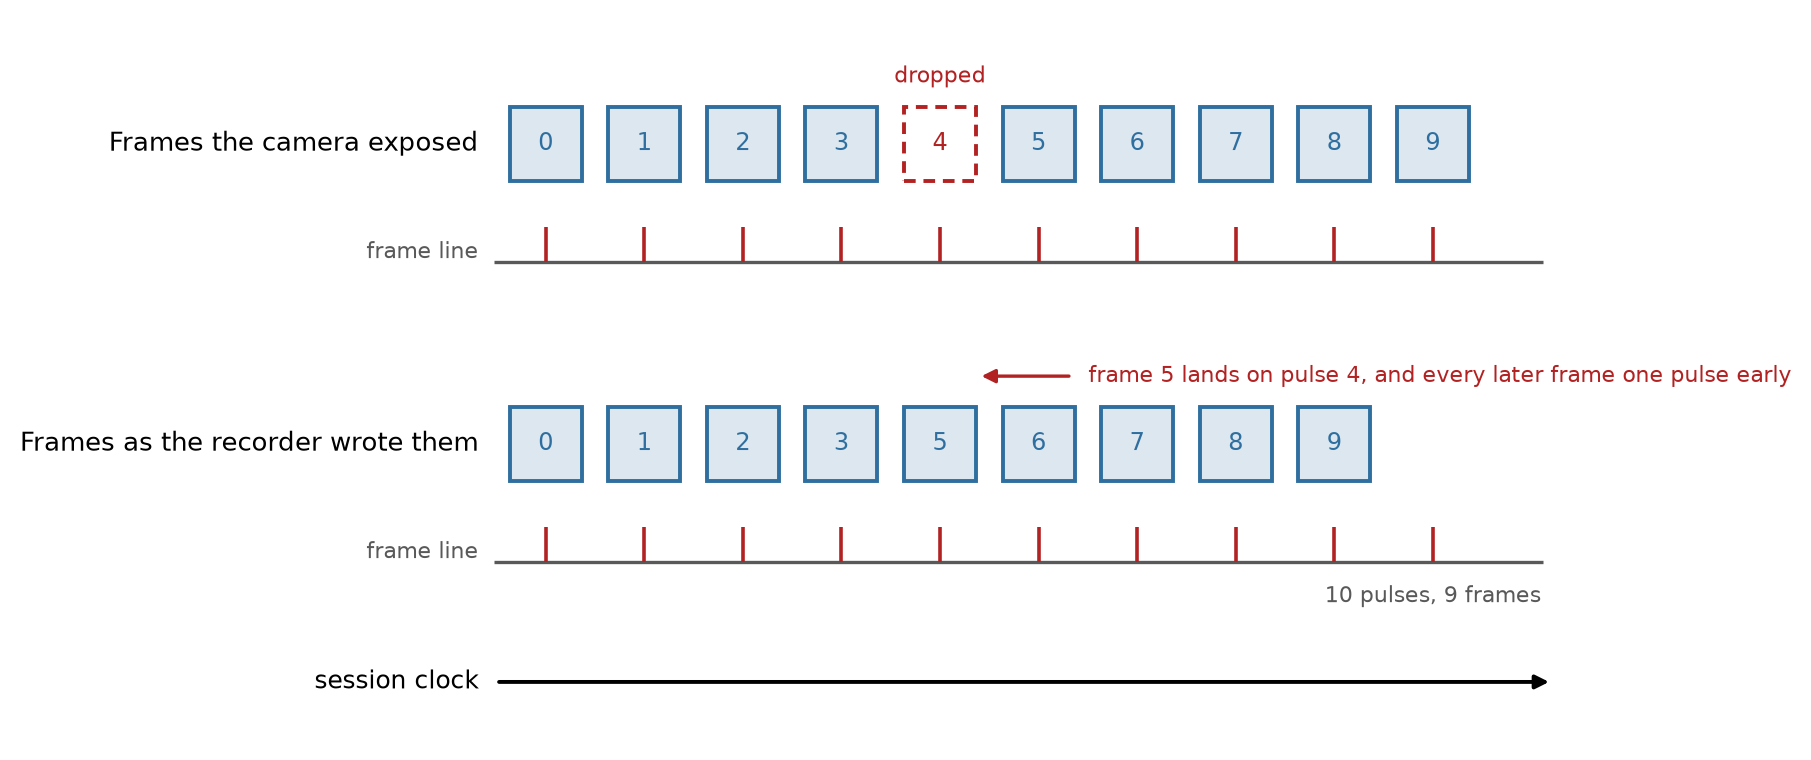
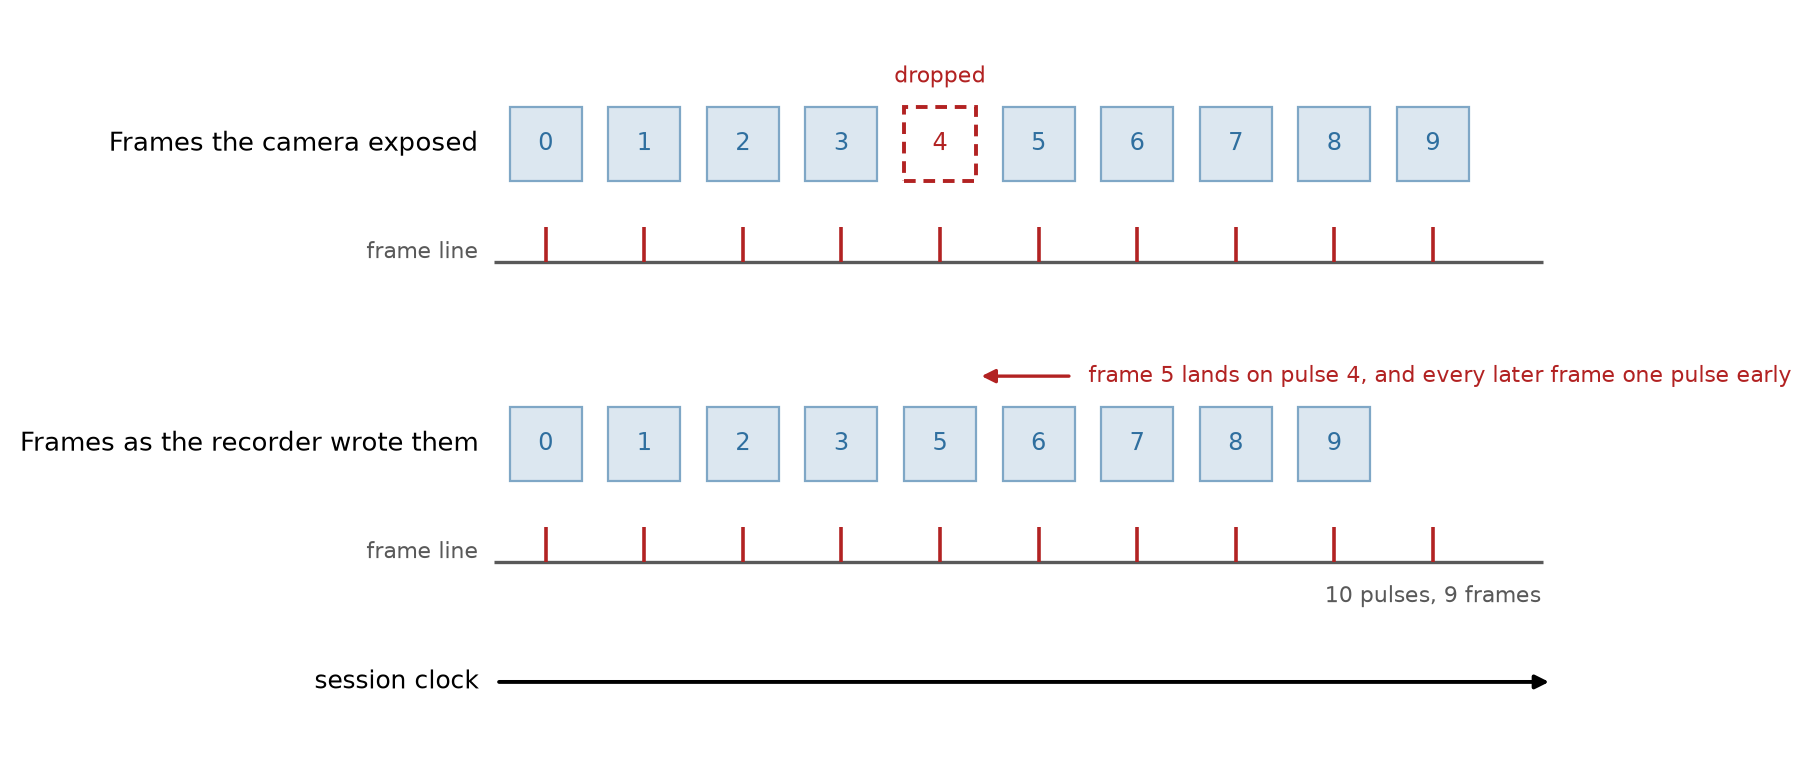
Add legends and lighter outlines to the video figures, and address the how-to review

Changed region(s): [[0.2783, 0.5145, 0.7731, 0.6355], [0.5566, 0.1211, 0.8349, 0.2421], [0.2783, 0.1211, 0.4948, 0.2421]]

diff --git a/docs/_static/images/generate_video_alignment_figures.py b/docs/_static/images/generate_video_alignment_figures.py
@@ -32,11 +32,15 @@ matplotlib.use("Agg")
 import matplotlib.patches as mpatches
 import matplotlib.pyplot as plt
 import numpy as np
+from matplotlib.lines import Line2D
 
 BLACK = "black"
 RED = "firebrick"
 FILL = "#dce7f0"  # the body of a video file
-EDGE = "#2f6f9f"  # its outline, and the colour of anything derived from the camera
+EDGE = "#2f6f9f"  # its label, and the colour of anything derived from the camera
+OUTLINE = "#7fa7c6"  # its outline, the same hue lighter, so the boxes do not compete with the pulses
+SYSTEM_OUTLINE = "0.75"  # the recording system's outline, lightened the same way
+OUTLINE_WIDTH = 0.8
 NOTE = "0.35"  # captions and asides
 OUTDIR = Path(__file__).parent
 
@@ -55,7 +59,13 @@ def video_files(ax, *, y, spans, labels):
     for (start, stop), label in zip(spans, labels):
         ax.add_patch(
             mpatches.Rectangle(
-                (start, y), stop - start, FILE_HEIGHT, facecolor=FILL, edgecolor=EDGE, lw=1.6, joinstyle="miter"
+                (start, y),
+                stop - start,
+                FILE_HEIGHT,
+                facecolor=FILL,
+                edgecolor=OUTLINE,
+                lw=OUTLINE_WIDTH,
+                joinstyle="miter",
             )
         )
         ax.text((start + stop) / 2, y + FILE_HEIGHT / 2, label, ha="center", va="center", fontsize=8.5, color=EDGE)
@@ -78,7 +88,13 @@ def recording_system(ax, *, y):
     """
     ax.add_patch(
         mpatches.Rectangle(
-            (0.55, y), 9.05, SYSTEM_HEIGHT, facecolor="0.93", edgecolor="0.6", lw=1.2, joinstyle="miter"
+            (0.55, y),
+            9.05,
+            SYSTEM_HEIGHT,
+            facecolor="0.93",
+            edgecolor=SYSTEM_OUTLINE,
+            lw=OUTLINE_WIDTH,
+            joinstyle="miter",
         )
     )
     ax.text(5.075, y + SYSTEM_HEIGHT / 2, "recording system", ha="center", va="center", fontsize=7.5, color="0.35")
@@ -133,6 +149,21 @@ def build_setup_figure(*, file_name, title, rows):
     # A guide at the session start, so the gap before each row's first file reads as its offset.
     ax.vlines(0.55, baseline_y, FILE_HEIGHT + 0.2, color="0.8", lw=1.0, linestyle=(0, (4, 4)))
 
+    # What the colors stand for, since the file names alone do not say that a block is a video.
+    legend_handles = [
+        mpatches.Patch(facecolor=FILL, edgecolor=OUTLINE, lw=OUTLINE_WIDTH, label="video file"),
+        Line2D([], [], color=RED, marker="|", linestyle="None", markersize=9, markeredgewidth=1.3, label="pulse"),
+        mpatches.Patch(facecolor="0.93", edgecolor=SYSTEM_OUTLINE, lw=OUTLINE_WIDTH, label="recording system"),
+    ]
+    ax.legend(
+        handles=legend_handles,
+        loc="upper center",
+        bbox_to_anchor=(0.5, 0.0),
+        ncol=len(legend_handles),
+        frameon=False,
+        fontsize=8.5,
+    )
+
     ax.set_xlim(GROUP_X - 0.1, 10.0)
     ax.set_ylim(baseline_y - 0.6, FILE_HEIGHT + 0.62)
     ax.axis("off")
@@ -151,15 +182,21 @@ def build_recording_setups():
         file_name="video_setup_free_running.png",
         title="A free-running camera",
         rows=[
-            ("Known offset", session, ["session.avi"], [1.0], "start pulse"),
+            ("Known offset", session, ["session.mp4"], [1.0], "start pulse"),
             (
                 "A pulse per frame",
                 session,
-                ["session.avi"],
+                ["session.mp4"],
                 frame_pulses(session, interval=0.16),
                 "frame line",
             ),
-            ("Written to several files", split, ["part_01", "part_02", "part_03"], [], "either of the above"),
+            (
+                "Written to several files",
+                split,
+                ["part_01.mp4", "part_02.mp4", "part_03.mp4"],
+                [],
+                "either of the above",
+            ),
         ],
     )
     build_setup_figure(
@@ -169,14 +206,14 @@ def build_recording_setups():
             (
                 "Trial onsets only",
                 trials,
-                ["trial_01", "trial_02", "trial_03"],
+                ["trial_01.mp4", "trial_02.mp4", "trial_03.mp4"],
                 [start for start, _ in trials],
                 "trigger line",
             ),
             (
                 "A pulse per frame",
                 trials,
-                ["trial_01", "trial_02", "trial_03"],
+                ["trial_01.mp4", "trial_02.mp4", "trial_03.mp4"],
                 frame_pulses(trials, interval=0.16),
                 "frame line",
             ),
@@ -204,8 +241,8 @@ def wiring_endpoints(ax, *, title, note):
                 0.30,
                 BOX_HEIGHT,
                 facecolor=FILL if is_camera else "0.93",
-                edgecolor=EDGE if is_camera else "0.55",
-                lw=1.6,
+                edgecolor=OUTLINE if is_camera else SYSTEM_OUTLINE,
+                lw=OUTLINE_WIDTH,
                 joinstyle="miter",
             )
         )
@@ -301,8 +338,8 @@ def build_dropped_frame():
                     width,
                     FILE_HEIGHT,
                     facecolor="white" if is_hollow else FILL,
-                    edgecolor=RED if is_hollow else EDGE,
-                    lw=1.4,
+                    edgecolor=RED if is_hollow else OUTLINE,
+                    lw=1.4 if is_hollow else OUTLINE_WIDTH,
                     linestyle=(0, (3, 2)) if is_hollow else "solid",
                     joinstyle="miter",
                 )

diff --git a/docs/how_to/align_external_video.rst b/docs/how_to/align_external_video.rst
@@ -160,6 +160,10 @@ Configure the line and read the event times back without writing anything:
 
     frame_pulse_times = digital_interface.get_event_times("camera_frame")
 
+Each key of ``detection_configuration`` names one input of the recording system as the file names it, here
+``"DIGITAL-IN-02"``. Use the input the camera's cable is plugged into on your rig. A name the file does not
+hold throws an error that lists the ones it does.
+
 The pulses are on the clock of the system that recorded them. Times read from an Intan digital line are on
 the Intan clock, so the frames you give them to land on that clock too. That is the session clock as long
 as the recording interface is not shifted, and that is the usual arrangement: one system is the master
@@ -179,8 +183,8 @@ writes one ``ImageSeries``. The only question is what timed it.
 
     from neuroconv.datainterfaces import ExternalVideoInterface
 
-    interface = ExternalVideoInterface(file_paths=["session.avi"], video_name="BehaviorCamera")
-    interface.alignment.keys()
+    video_interface = ExternalVideoInterface(file_paths=["session.mp4"], video_name="BehaviorCamera")
+    video_interface.alignment.keys()
     # ('session',)
 
 Each video file is addressed for alignment by the stem of its path, so a single video has one key. A single
@@ -199,7 +203,7 @@ session start, from a note or from the one trigger pulse that started it.
 
 .. code-block:: python
 
-    interface.alignment.shift_times(12.5)
+    video_interface.alignment.shift_times(12.5)
 
 The frame times come from the video's own frame rate, shifted by the offset. This corrects the start and
 nothing else. Two clocks drift apart, so on a long session the error at the end of the video grows and no
@@ -218,13 +222,14 @@ did not make. To make it explicit, place each file where the previous one ends:
 
     import numpy as np
 
-    interface = ExternalVideoInterface(file_paths=["part_01.avi", "part_02.avi", "part_03.avi"])
+    video_interface = ExternalVideoInterface(file_paths=["part_01.mp4", "part_02.mp4", "part_03.mp4"])
 
-    durations = np.array(interface.get_header_frame_counts()) / np.array(interface.get_header_frame_rates())
+    frame_counts = np.array(video_interface.get_header_frame_counts())
+    durations = frame_counts / np.array(video_interface.get_header_frame_rates())
     starting_times = np.concatenate([[0.0], np.cumsum(durations)[:-1]])
 
-    for segment_key, start in zip(interface.alignment.keys(), starting_times):
-        interface.alignment[segment_key].start_at(start)
+    for segment_key, start in zip(video_interface.alignment.keys(), starting_times):
+        video_interface.alignment[segment_key].start_at(start)
 
 ``start_at`` moves one file so that its first frame sits at the time you give on the session clock. It reads
 nothing inside the file. If the camera also started late, shift the interface as in the known-offset case
@@ -241,7 +246,7 @@ timestamped each frame directly. This is accurate and corrects drift. Prefer it 
 
     frame_pulse_times = digital_interface.get_event_times("camera_frame")
 
-    interface.alignment["session"].set_times(frame_pulse_times)
+    video_interface.alignment["session"].set_times(frame_pulse_times)
 
 You do not have to count them first. The interface throws an error when the number of times does not match
 the number of frames and says by how much. Many more pulses than frames usually means the line was running
@@ -275,8 +280,8 @@ A shift will not do it because the two clocks drift.
     # The same pulses, as the recording system timestamped them, on the session clock.
     recording_system_sync_times = digital_interface.get_event_times("camera_sync")
 
-    interface.alignment["session"].set_times(frame_times)
-    interface.alignment["session"].remap_times(
+    video_interface.alignment["session"].set_times(frame_times)
+    video_interface.alignment["session"].remap_times(
         local_sync_times=camera_sync_times,
         reference_sync_times=recording_system_sync_times,
     )
@@ -308,8 +313,8 @@ each file begins within the series. It is computed from the frame counts and nev
 
 .. code-block:: python
 
-    interface = ExternalVideoInterface(file_paths=["trial_01.avi", "trial_02.avi", "trial_03.avi"])
-    interface.alignment.keys()
+    video_interface = ExternalVideoInterface(file_paths=["trial_01.mp4", "trial_02.mp4", "trial_03.mp4"])
+    video_interface.alignment.keys()
     # ('trial_01', 'trial_02', 'trial_03')
 
 If two trials wrote files with the same name in different folders, rename them. The stem is how a file is
@@ -323,11 +328,11 @@ merging the two.
 .. code-block:: python
 
     trial_onsets = digital_interface.get_event_times("camera_trigger")
-    segment_keys = interface.alignment.keys()
+    segment_keys = video_interface.alignment.keys()
     assert len(trial_onsets) == len(segment_keys)
 
     for segment_key, onset in zip(segment_keys, trial_onsets):
-        interface.alignment[segment_key].start_at(onset)
+        video_interface.alignment[segment_key].start_at(onset)
 
 Each file is placed where its trigger fired. Within a file the frame times come from the nominal frame
 rate, so the drift caveat from the known-offset case applies again, per trial instead of once for the
@@ -361,17 +366,33 @@ are the frame times of that file.
     gap_indices = np.flatnonzero(np.diff(frame_pulse_times) > 10 * frame_interval) + 1
     bursts = np.split(frame_pulse_times, gap_indices)
 
-    segment_keys = interface.alignment.keys()
+    segment_keys = video_interface.alignment.keys()
 
     assert len(bursts) == len(segment_keys), f"{len(bursts)} bursts for {len(segment_keys)} files."
     for segment_key, burst in zip(segment_keys, bursts):
-        interface.alignment[segment_key].set_times(burst)
+        video_interface.alignment[segment_key].set_times(burst)
+
+    # Each file starts on the first pulse of its burst, which the trials table below can use.
+    trial_onsets = np.array([burst[0] for burst in bursts])
 
 Keep the assertion on the burst count. Without it ``zip`` stops at the shorter of the two lists and the
 result looks fine. The interface checks the count within a file and throws an error when a burst does not
 have one pulse per frame. In either case the pulse record and the files disagree about
 the session, and you have to find the cause before the timestamps mean anything. The usual cause is a trial
 that was triggered but never reached disk. That puts every later file onto the pulses of the wrong trial.
+
+If your acquisition software logs which trials never reached disk, drop their bursts before pairing the
+rest with the files:
+
+.. code-block:: python
+
+    # Positions, in the full sequence of triggered trials, of the trials whose video is missing.
+    missing_trial_indices = {12, 47}
+    bursts = [burst for index, burst in enumerate(bursts) if index not in missing_trial_indices]
+
+The count check then confirms each burst against its file. It cannot tell two trials of the same length
+apart, so on a rig where every trial runs for a fixed time the log is the only record of which burst is
+which.
 
 **A second line makes the split more robust.** If the rig also has a line that marks when each trial began,
 bin the frame pulses between consecutive trial onsets instead of splitting on the gaps. This needs no
@@ -397,7 +418,8 @@ somewhere that can hold it: a column on the trials table when the segments are y
 
 .. code-block:: python
 
-    durations = np.array(interface.get_header_frame_counts()) / np.array(interface.get_header_frame_rates())
+    frame_counts = np.array(video_interface.get_header_frame_counts())
+    durations = frame_counts / np.array(video_interface.get_header_frame_rates())
 
     nwbfile.add_trial_column(name="video_file", description="The external_file entry holding this trial's frames.")
     for onset, duration, file_path in zip(trial_onsets, durations, file_paths):
